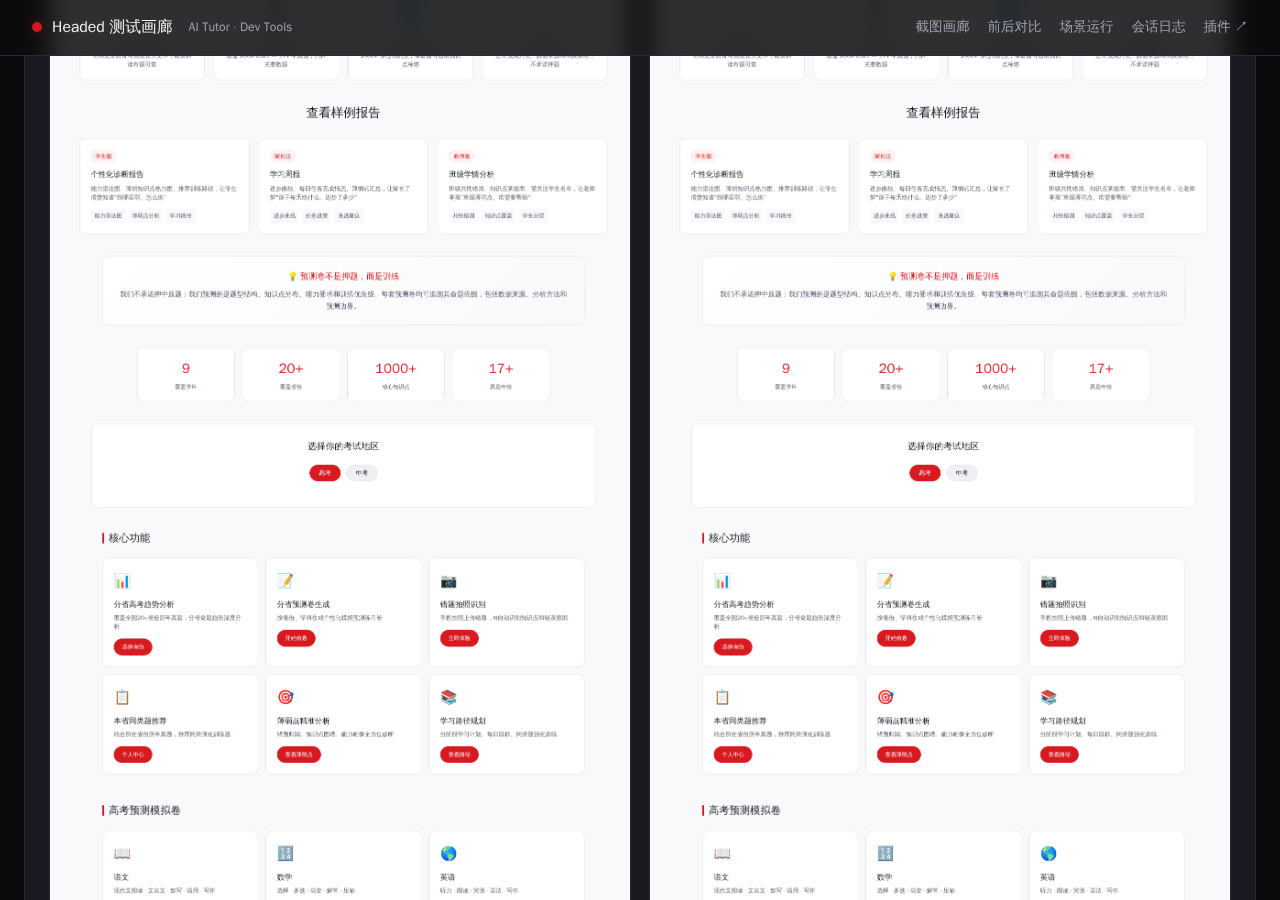
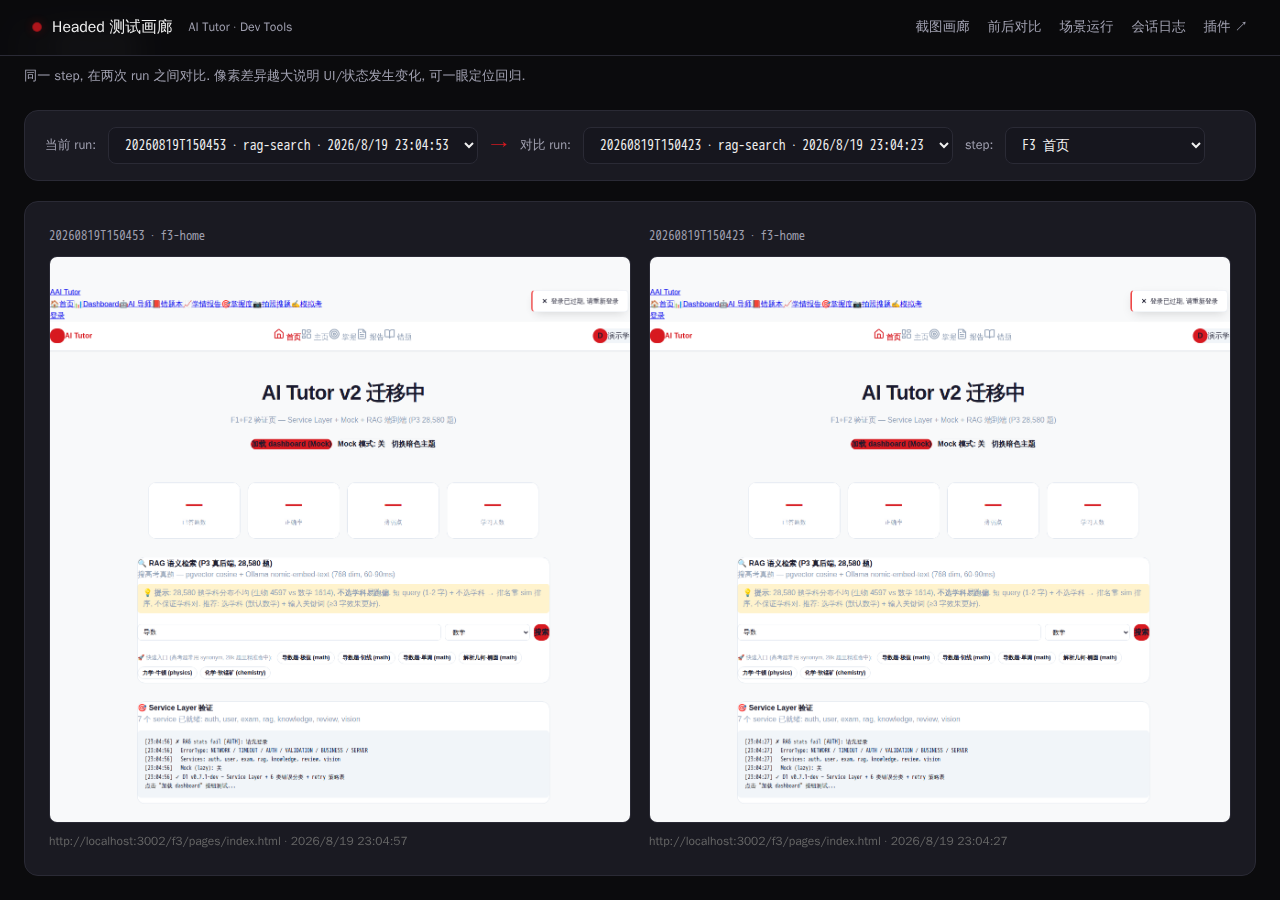
fix(dev): run.mjs + demo 页切换到 F3 真生产路径
用户反馈: demo 页显示的截图是老 frontend/ 路径, 不是真生产版 F3.
根因: run.mjs 的 BASE 用了 '/' (老 frontend/index.html 在根路径),
真实生产版 ai-tutor-frontend/ (D070 已迁移) 服务在 /f3/* 下.

修复:
1. scripts/headed-tests/run.mjs:
   - BASE 改用 '/f3/pages' (F3 路径)
   - 6 步 → 7 步: 加 F3 mastery 页面
   - step 命名加 f3- 前缀 (f3-home / f3-dashboard / f3-wrong-book / f3-mastery)
   - 孤儿检测更严: manifest AND 截图目录都在才保留

2. frontend/dev/headed-gallery.html:
   - diff-step 选项改成 f3-home / f3-dashboard / f3-wrong-book / f3-mastery

3. frontend/dev/headed-gallery.js:
   - 简化匹配: 只用 step 字段 (不再依赖文件名)

4. 重新生成 screenshots-demo/ 自指截图 (F3 dashboard 真实数据)

未涉及: server.js, .ai/decisions/, api/, ai-tutor-frontend/, production code.

diff --git a/frontend/dev/headed-gallery.html b/frontend/dev/headed-gallery.html
@@ -63,11 +63,12 @@
       <select id="diff-right" aria-label="右图 run"></select>
       <label>step:</label>
       <select id="diff-step" aria-label="step">
-        <option value="2-home">首页</option>
-        <option value="3-guest-login">游客登录</option>
-        <option value="4-dashboard">dashboard</option>
-        <option value="5-wrong-book">错题本</option>
-        <option value="6-rag-search">RAG</option>
+        <option value="f3-home">F3 首页</option>
+        <option value="guest-login">游客登录</option>
+        <option value="f3-dashboard">F3 dashboard</option>
+        <option value="f3-wrong-book">F3 错题本</option>
+        <option value="f3-mastery">F3 掌握度</option>
+        <option value="rag-search">RAG</option>
       </select>
     </div>
 

diff --git a/frontend/dev/headed-gallery.js b/frontend/dev/headed-gallery.js
@@ -129,10 +129,10 @@ function renderDiff() {
   ]).then(([mL, mR]) => {
     state.manifests[left]  = mL;
     state.manifests[right] = mR;
-    const sL = mL.shots.find(s => s.file.startsWith(`${mL.shots.indexOf(s) + 1}-`) && s.step === step) || mL.shots.find(s => s.file.includes(step));
-    const sR = mR.shots.find(s => s.file.includes(step));
+    const sL = mL.shots.find(s => s.step === step);
+    const sR = mR.shots.find(s => s.step === step);
     if (!sL || !sR) {
-      els.diffFrame.innerHTML = `<p class="hg-empty">该 step 在其中一个 run 缺失.</p>`;
+      els.diffFrame.innerHTML = `<p class="hg-empty">该 step (${step}) 在其中一个 run 缺失.</p>`;
       return;
     }
     els.diffFrame.innerHTML = `
